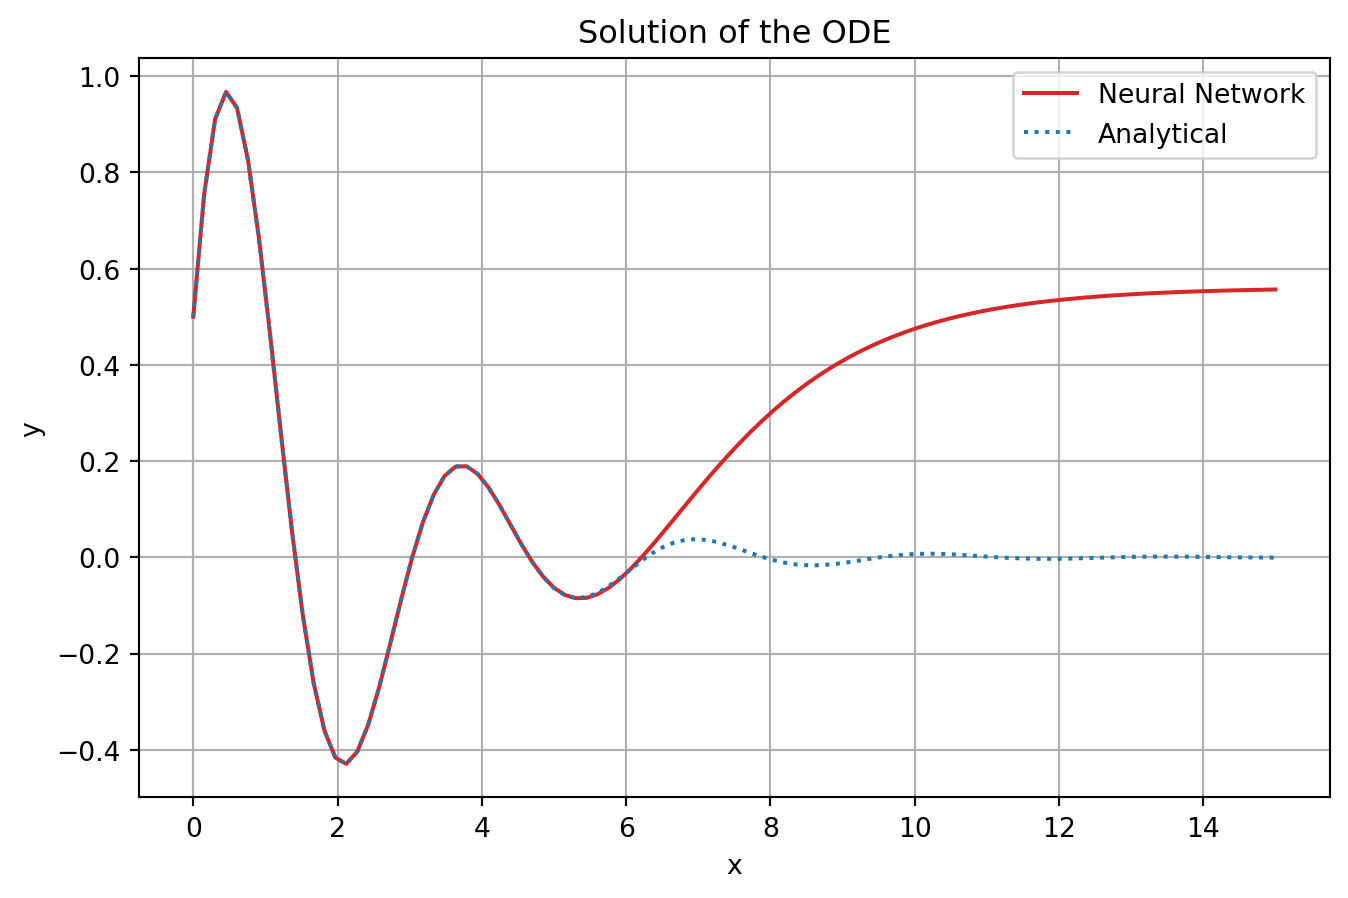
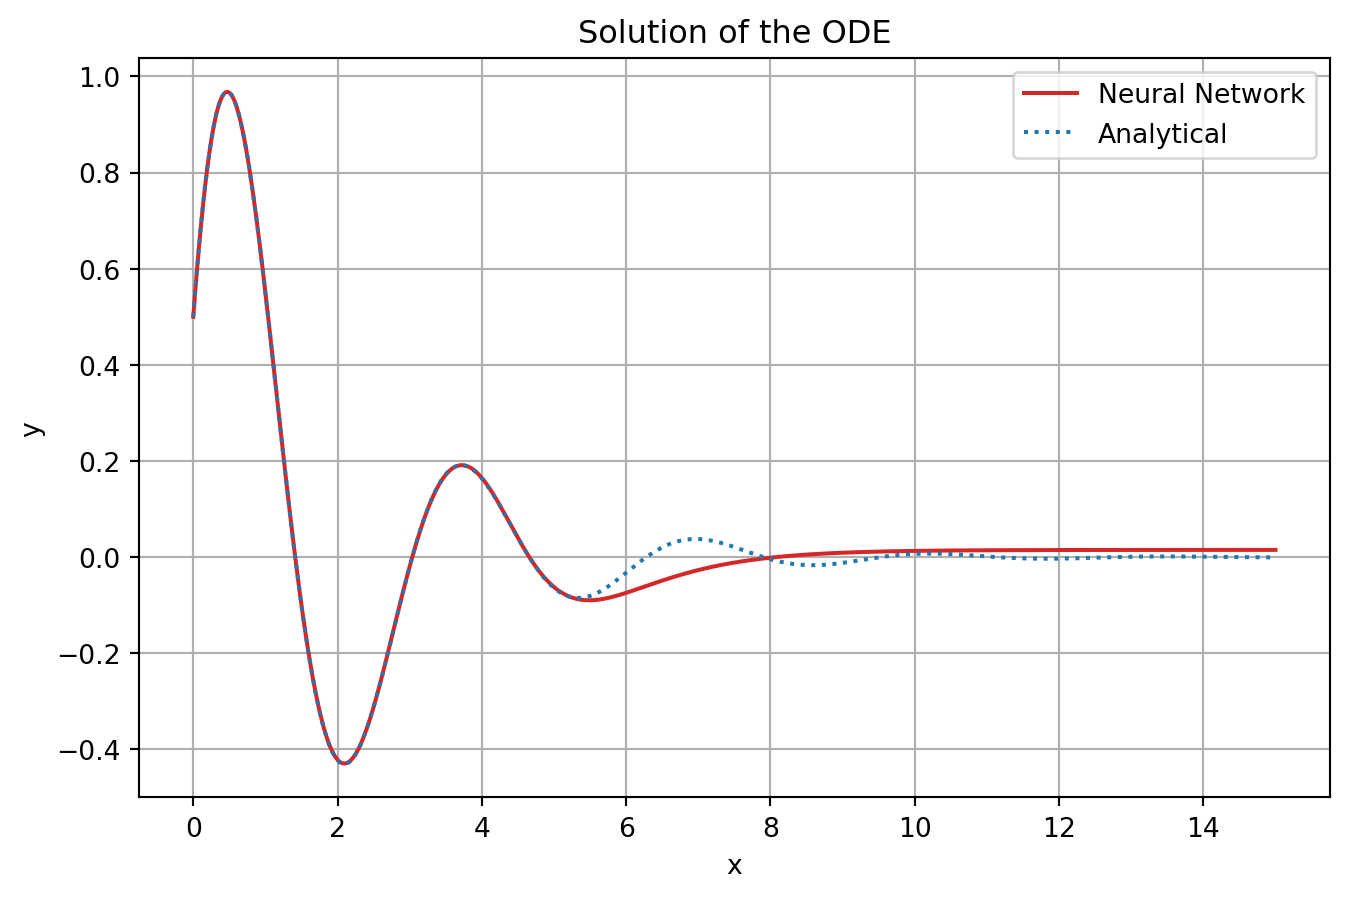
update website

diff --git a/docs/blog/SolvingODEsUsingANNs/SolvingODEsUsingANNs.html b/docs/blog/SolvingODEsUsingANNs/SolvingODEsUsingANNs.html
@@ -333,34 +333,34 @@ code span.wa { color: #60a0b0; font-weight: bold; font-style: italic; } /* Warni
 <span id="cb6-14"><a href="#cb6-14" aria-hidden="true" tabindex="-1"></a>    </span>
 <span id="cb6-15"><a href="#cb6-15" aria-hidden="true" tabindex="-1"></a>  <span class="bu">print</span>(<span class="ss">f"Epoch [</span><span class="sc">{</span>epoch<span class="op">+</span><span class="dv">1</span><span class="sc">}</span><span class="ss">/</span><span class="sc">{</span>num_epochs<span class="sc">}</span><span class="ss">], Loss: </span><span class="sc">{</span>loss<span class="sc">.</span>item()<span class="sc">:.4f}</span><span class="ss">"</span>)</span></code><button title="Copy to Clipboard" class="code-copy-button"><i class="bi"></i></button></pre></div>
 <div class="cell-output cell-output-stdout">
-<pre><code>Epoch [1/10], Loss: 0.1614</code></pre>
+<pre><code>Epoch [1/10], Loss: 0.1530</code></pre>
 </div>
 <div class="cell-output cell-output-stdout">
-<pre><code>Epoch [2/10], Loss: 0.0779</code></pre>
+<pre><code>Epoch [2/10], Loss: 0.0672</code></pre>
 </div>
 <div class="cell-output cell-output-stdout">
-<pre><code>Epoch [3/10], Loss: 0.0125</code></pre>
+<pre><code>Epoch [3/10], Loss: 0.0492</code></pre>
 </div>
 <div class="cell-output cell-output-stdout">
-<pre><code>Epoch [4/10], Loss: 0.0042</code></pre>
+<pre><code>Epoch [4/10], Loss: 0.0032</code></pre>
 </div>
 <div class="cell-output cell-output-stdout">
-<pre><code>Epoch [5/10], Loss: 0.0027</code></pre>
+<pre><code>Epoch [5/10], Loss: 0.0022</code></pre>
 </div>
 <div class="cell-output cell-output-stdout">
-<pre><code>Epoch [6/10], Loss: 0.0004</code></pre>
+<pre><code>Epoch [6/10], Loss: 0.0017</code></pre>
 </div>
 <div class="cell-output cell-output-stdout">
-<pre><code>Epoch [7/10], Loss: 0.0001</code></pre>
+<pre><code>Epoch [7/10], Loss: 0.0014</code></pre>
 </div>
 <div class="cell-output cell-output-stdout">
-<pre><code>Epoch [8/10], Loss: 0.0000</code></pre>
+<pre><code>Epoch [8/10], Loss: 0.0011</code></pre>
 </div>
 <div class="cell-output cell-output-stdout">
-<pre><code>Epoch [9/10], Loss: 0.0000</code></pre>
+<pre><code>Epoch [9/10], Loss: 0.0006</code></pre>
 </div>
 <div class="cell-output cell-output-stdout">
-<pre><code>Epoch [10/10], Loss: 0.0000</code></pre>
+<pre><code>Epoch [10/10], Loss: 0.0002</code></pre>
 </div>
 </div>
 </section>
@@ -369,7 +369,7 @@ code span.wa { color: #60a0b0; font-weight: bold; font-style: italic; } /* Warni
 <div class="cell" data-execution_count="7">
 <details>
 <summary>Show code</summary>
-<div class="sourceCode cell-code" id="cb17"><pre class="sourceCode python code-with-copy"><code class="sourceCode python"><span id="cb17-1"><a href="#cb17-1" aria-hidden="true" tabindex="-1"></a>x <span class="op">=</span> torch.linspace(<span class="dv">0</span>, <span class="dv">15</span>, <span class="dv">100</span>)[:, <span class="va">None</span>]</span>
+<div class="sourceCode cell-code" id="cb17"><pre class="sourceCode python code-with-copy"><code class="sourceCode python"><span id="cb17-1"><a href="#cb17-1" aria-hidden="true" tabindex="-1"></a>x <span class="op">=</span> torch.linspace(<span class="dv">0</span>, <span class="dv">15</span>, <span class="dv">1000</span>)[:, <span class="va">None</span>]</span>
 <span id="cb17-2"><a href="#cb17-2" aria-hidden="true" tabindex="-1"></a><span class="cf">with</span> torch.no_grad():</span>
 <span id="cb17-3"><a href="#cb17-3" aria-hidden="true" tabindex="-1"></a>  y <span class="op">=</span> model(x)</span>
 <span id="cb17-4"><a href="#cb17-4" aria-hidden="true" tabindex="-1"></a></span>
@@ -486,7 +486,7 @@ code span.wa { color: #60a0b0; font-weight: bold; font-style: italic; } /* Warni
 <div class="cell" data-execution_count="12">
 <details>
 <summary>Show code</summary>
-<div class="sourceCode cell-code" id="cb32"><pre class="sourceCode python code-with-copy"><code class="sourceCode python"><span id="cb32-1"><a href="#cb32-1" aria-hidden="true" tabindex="-1"></a>x <span class="op">=</span> torch.linspace(<span class="op">-</span><span class="dv">5</span>, <span class="dv">5</span>, <span class="dv">100</span>)[:, <span class="va">None</span>]</span>
+<div class="sourceCode cell-code" id="cb32"><pre class="sourceCode python code-with-copy"><code class="sourceCode python"><span id="cb32-1"><a href="#cb32-1" aria-hidden="true" tabindex="-1"></a>x <span class="op">=</span> torch.linspace(<span class="op">-</span><span class="dv">5</span>, <span class="dv">5</span>, <span class="dv">1000</span>)[:, <span class="va">None</span>]</span>
 <span id="cb32-2"><a href="#cb32-2" aria-hidden="true" tabindex="-1"></a><span class="cf">with</span> torch.no_grad():</span>
 <span id="cb32-3"><a href="#cb32-3" aria-hidden="true" tabindex="-1"></a>  y <span class="op">=</span> model(x)</span>
 <span id="cb32-4"><a href="#cb32-4" aria-hidden="true" tabindex="-1"></a></span>

diff --git a/docs/blog/index.html b/docs/blog/index.html
@@ -210,7 +210,39 @@ Alicia
 </a>
 </div>
 </div>
-<div class="quarto-post image-right" data-index="2" data-listing-file-modified-sort="1755700890194" data-listing-reading-time-sort="2.485">
+<div class="quarto-post image-right" data-index="2" data-categories="Science,Technology" data-listing-date-sort="1621634400000" data-listing-file-modified-sort="1755774193346" data-listing-reading-time-sort="3.185">
+<div class="thumbnail">
+<a href="../blog/SolvingODEsUsingANNs/SolvingODEsUsingANNs.html">
+<div class="thumbnail-image">
+
+</div>
+</a><p><a href="../blog/SolvingODEsUsingANNs/SolvingODEsUsingANNs.html"></a></p>
+</div>
+<div class="body">
+<a href="../blog/SolvingODEsUsingANNs/SolvingODEsUsingANNs.html">
+<h3 class="no-anchor listing-title">
+Post titel: ODE via NN
+</h3>
+<div class="listing-subtitle">
+
+</div>
+<div class="listing-description">
+<p>Post description</p>
+</div>
+</a>
+</div>
+<div class="metadata">
+<a href="../blog/SolvingODEsUsingANNs/SolvingODEsUsingANNs.html">
+<div class="listing-date">
+May 22, 2021
+</div>
+<div class="listing-author">
+Author
+</div>
+</a>
+</div>
+</div>
+<div class="quarto-post image-right" data-index="3" data-categories="Science,Technology" data-listing-date-sort="1621634400000" data-listing-file-modified-sort="1755706327445" data-listing-reading-time-sort="2.485">
 <div class="thumbnail">
 <a href="../blog/ANNsForProbabilityDensityEstimation/ANNsForProbabilityDensityEstimation.html">
 <div class="thumbnail-image">
@@ -221,21 +253,28 @@ Alicia
 <div class="body">
 <a href="../blog/ANNsForProbabilityDensityEstimation/ANNsForProbabilityDensityEstimation.html">
 <h3 class="no-anchor listing-title">
-Load Packages
+Post titel: PDE via NN
 </h3>
 <div class="listing-subtitle">
 
 </div>
 <div class="listing-description">
-ACHTUNG: bei NN training scheint doch noch randomness drin zu sein; WICHTIG SETZE DESHALB WEITERE SEEDS INSBESONDERE FÜR random
+<p>Post description</p>
 </div>
 </a>
 </div>
 <div class="metadata">
-<a href="../blog/ANNsForProbabilityDensityEstimation/ANNsForProbabilityDensityEstimation.html"> </a>
+<a href="../blog/ANNsForProbabilityDensityEstimation/ANNsForProbabilityDensityEstimation.html">
+<div class="listing-date">
+May 22, 2021
+</div>
+<div class="listing-author">
+Author
+</div>
+</a>
 </div>
 </div>
-<div class="quarto-post image-right" data-index="3" data-categories="Science,Data" data-listing-date-sort="1621720800000" data-listing-file-modified-sort="1751196231252" data-listing-reading-time-sort="1.315">
+<div class="quarto-post image-right" data-index="4" data-categories="Science,Data" data-listing-date-sort="1621720800000" data-listing-file-modified-sort="1751196231252" data-listing-reading-time-sort="1.315">
 <div class="thumbnail">
 <p><a href="../blog/post-2/index.html"> <img src="../blog/post-2/cover.jpg" class="thumnail-image"> </a></p>
 </div>
@@ -261,31 +300,6 @@ May 23, 2021
 Alicia
 </div>
 </a>
-</div>
-</div>
-<div class="quarto-post image-right" data-index="4" data-listing-file-modified-sort="1755700232555" data-listing-reading-time-sort="3.035">
-<div class="thumbnail">
-<a href="../blog/SolvingODEsUsingANNs/SolvingODEsUsingANNs.html">
-<div class="thumbnail-image">
-
-</div>
-</a><p><a href="../blog/SolvingODEsUsingANNs/SolvingODEsUsingANNs.html"></a></p>
-</div>
-<div class="body">
-<a href="../blog/SolvingODEsUsingANNs/SolvingODEsUsingANNs.html">
-<h3 class="no-anchor listing-title">
-To Dos:
-</h3>
-<div class="listing-subtitle">
-
-</div>
-<div class="listing-description">
-WICHTIG: Kommentar auch in ANN für ODEs bzgl. epochs &amp; PRINT REPLACE ÜBERNEHMEN
-</div>
-</a>
-</div>
-<div class="metadata">
-<a href="../blog/SolvingODEsUsingANNs/SolvingODEsUsingANNs.html"> </a>
 </div>
 </div>
 <div class="quarto-post image-right" data-index="5" data-listing-file-modified-sort="1754070352706" data-listing-reading-time-sort="0.34">
